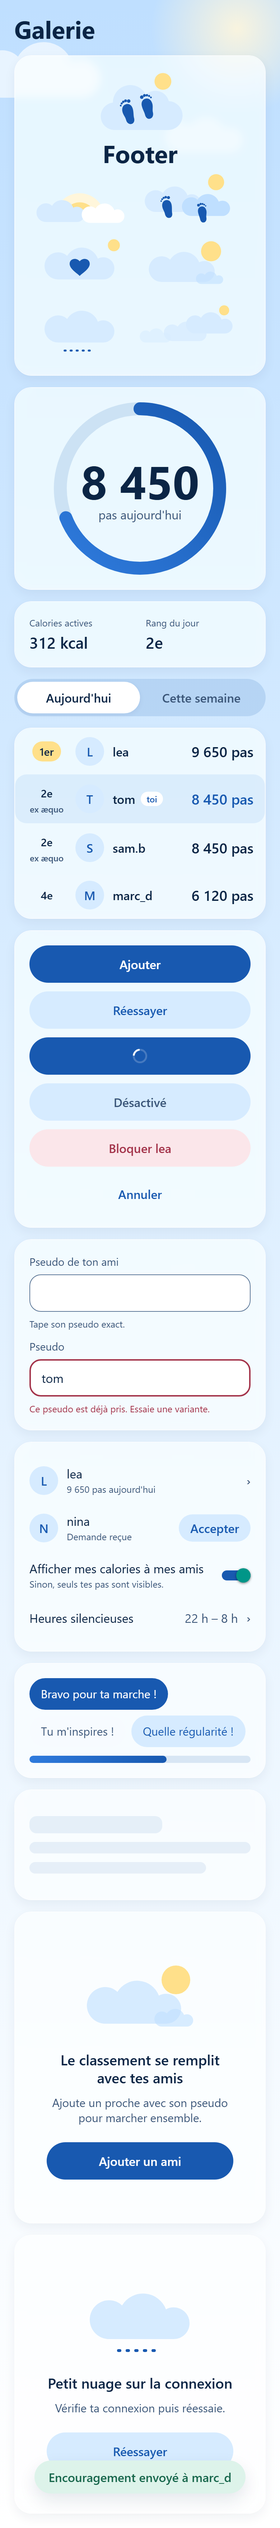
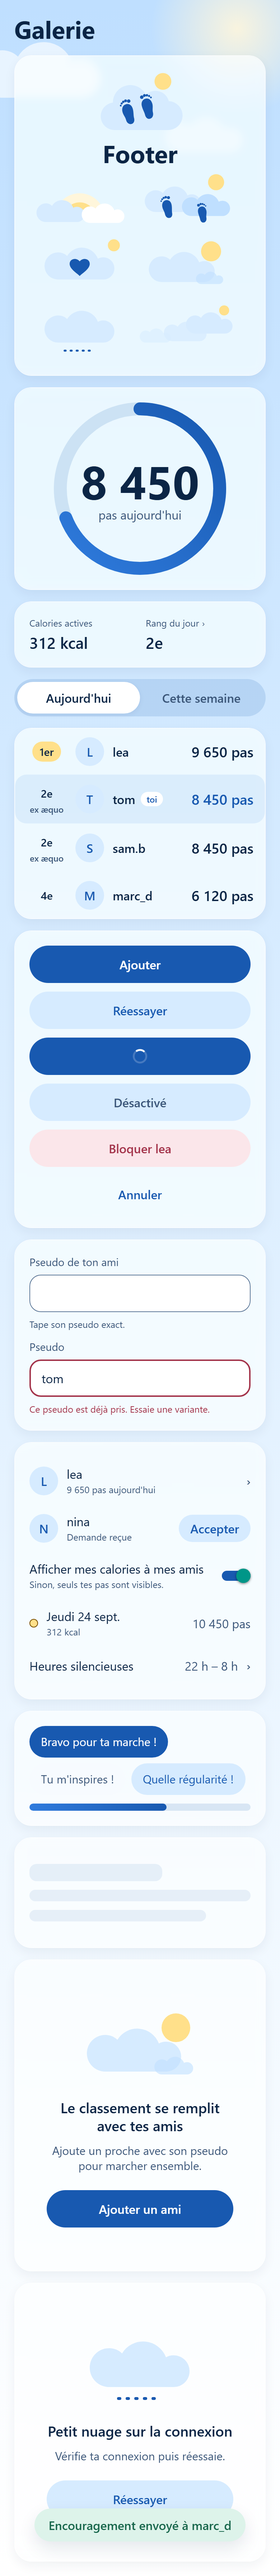
[designer] StatTile.onPress, ListRow leadingLabel et SunBadge ; screens.md : consentement

diff --git a/packages/ui/src/components/ListRow.tsx b/packages/ui/src/components/ListRow.tsx
@@ -1,15 +1,32 @@
 import type { ReactNode } from "react";
 import { Pressable, StyleSheet, Switch, View } from "react-native";
-import { layout, lightColors, space, type ColorToken } from "../tokens";
+import { layout, lightColors, radius, space, type ColorToken } from "../tokens";
 import { AppText } from "./AppText";
 
 type Base = {
   title: string;
   subtitle?: string;
-  /** Élément à gauche (Monogram, icône décorative). */
+  /** Élément à gauche (Monogram, `SunBadge`…). Décoratif : masqué à VoiceOver. */
   leading?: ReactNode;
+  /** Sens de `leading` s'il porte une information, ajouté au libellé VoiceOver (ex. « palier de 10 000 franchi »). */
+  leadingLabel?: string;
   titleColor?: ColorToken;
 };
+
+/** Emplacement de tête, toujours masqué à VoiceOver (le sens éventuel passe par `leadingLabel`). */
+function Leading({ children }: { children?: ReactNode }) {
+  if (children == null || children === false) return null;
+  return (
+    <View aria-hidden style={styles.leading}>
+      {children}
+    </View>
+  );
+}
+
+/** Pastille soleil décorative (ex. jour où le palier de 10 000 pas est franchi). */
+export function SunBadge() {
+  return <View aria-hidden style={styles.sunBadge} />;
+}
 
 function RowText({ title, subtitle, titleColor }: Pick<Base, "title" | "subtitle"> & { titleColor: ColorToken }) {
   return (
@@ -36,11 +53,21 @@ export type ListRowProps = Base & {
 };
 
 /** Ligne de liste (amis, demandes, paramètres). Chevron affiché si pressable. */
-export function ListRow({ title, subtitle, leading, titleColor = "text", value, trailing, onPress, accessibilityHint }: ListRowProps) {
-  const label = [title, subtitle, value].filter(Boolean).join(", ");
+export function ListRow({
+  title,
+  subtitle,
+  leading,
+  leadingLabel,
+  titleColor = "text",
+  value,
+  trailing,
+  onPress,
+  accessibilityHint,
+}: ListRowProps) {
+  const label = [title, subtitle, value, leadingLabel].filter(Boolean).join(", ");
   const content = (
     <>
-      {leading}
+      <Leading>{leading}</Leading>
       <RowText title={title} subtitle={subtitle} titleColor={titleColor} />
       {value ? (
         <AppText variant="body" color="textSecondary">
@@ -58,8 +85,8 @@ export function ListRow({ title, subtitle, leading, titleColor = "text", value, 
   if (trailing) {
     return (
       <View style={styles.row}>
-        <View style={styles.inline} accessible aria-label={[title, subtitle].filter(Boolean).join(", ")}>
-          {leading}
+        <View style={styles.inline} accessible aria-label={[title, subtitle, leadingLabel].filter(Boolean).join(", ")}>
+          <Leading>{leading}</Leading>
           <RowText title={title} subtitle={subtitle} titleColor={titleColor} />
         </View>
         <View style={styles.trailing}>{trailing}</View>
@@ -88,7 +115,7 @@ export function ListRow({ title, subtitle, leading, titleColor = "text", value, 
   );
 }
 
-export type SwitchRowProps = Base & {
+export type SwitchRowProps = Omit<Base, "leadingLabel"> & {
   value: boolean;
   onValueChange: (value: boolean) => void;
   disabled?: boolean;
@@ -98,7 +125,7 @@ export type SwitchRowProps = Base & {
 export function SwitchRow({ title, subtitle, leading, titleColor = "text", value, onValueChange, disabled }: SwitchRowProps) {
   return (
     <View style={styles.row}>
-      {leading}
+      <Leading>{leading}</Leading>
       <View style={styles.body} aria-hidden>
         <RowText title={title} subtitle={subtitle} titleColor={titleColor} />
       </View>
@@ -126,6 +153,15 @@ const styles = StyleSheet.create({
   },
   inline: { flex: 1, flexDirection: "row", alignItems: "center", gap: space[3] },
   pressed: { opacity: 0.6 },
+  leading: { alignItems: "center", justifyContent: "center" },
+  sunBadge: {
+    width: space[3],
+    height: space[3],
+    borderRadius: radius.full,
+    backgroundColor: lightColors.sun,
+    borderWidth: 1.5,
+    borderColor: lightColors.warning,
+  },
   body: { flex: 1, gap: space[1] / 2 },
   trailing: { flexDirection: "row", gap: space[2], flexWrap: "wrap", justifyContent: "flex-end" },
 });

diff --git a/packages/ui/src/components/Chip.tsx b/packages/ui/src/components/Chip.tsx
@@ -44,19 +44,62 @@ export type StatTileProps = {
   value: string;
   /** Lecture VoiceOver si différente, ex. « Calories actives, 312 kilocalories ». */
   accessibilityLabel?: string;
+  /** Rend la tuile pressable (bouton), ex. rang du jour → Classement. */
+  onPress?: () => void;
+  /** Conséquence du toucher, ex. « Ouvre le classement ». Ignoré sans `onPress`. */
+  accessibilityHint?: string;
 };
 
-/** Petit indicateur chiffré (calories, rang du jour). */
-export function StatTile({ label, value, accessibilityLabel }: StatTileProps) {
-  return (
-    <View style={styles.tile} accessible aria-label={accessibilityLabel ?? `${label}, ${value}`}>
-      <AppText variant="footnote" color="textSecondary">
-        {label}
-      </AppText>
+/** Petit indicateur chiffré (calories, rang du jour). Pressable si `onPress` est fourni. */
+export function StatTile({ label, value, accessibilityLabel, onPress, accessibilityHint }: StatTileProps) {
+  const reduced = useReducedMotion();
+  const a11yLabel = accessibilityLabel ?? `${label}, ${value}`;
+  const content = (
+    <>
+      {onPress ? (
+        <View style={styles.tileLabel}>
+          <AppText variant="footnote" color="textSecondary" style={styles.tileLabelText}>
+            {label}
+          </AppText>
+          <AppText variant="footnote" color="textSecondary" aria-hidden>
+            ›
+          </AppText>
+        </View>
+      ) : (
+        <AppText variant="footnote" color="textSecondary">
+          {label}
+        </AppText>
+      )}
       <AppText variant="title2" style={styles.value}>
         {value}
       </AppText>
-    </View>
+    </>
+  );
+
+  if (!onPress) {
+    return (
+      <View style={styles.tile} accessible aria-label={a11yLabel}>
+        {content}
+      </View>
+    );
+  }
+
+  return (
+    <Pressable
+      role="button"
+      aria-label={a11yLabel}
+      accessibilityHint={accessibilityHint}
+      onPress={onPress}
+      hitSlop={space[2]}
+      style={({ pressed }) => [
+        styles.tile,
+        styles.tilePressable,
+        pressed && styles.tilePressed,
+        pressed && !reduced ? { transform: [{ scale: motion.pressedScale }] } : null,
+      ]}
+    >
+      {content}
+    </Pressable>
   );
 }
 
@@ -73,5 +116,9 @@ const styles = StyleSheet.create({
   pressed: { backgroundColor: lightColors.accentSoftPressed },
   disabled: { backgroundColor: lightColors.surfaceOpaque },
   tile: { flex: 1, gap: space[1] },
+  tileLabel: { flexDirection: "row", alignItems: "center", gap: space[1] },
+  tileLabelText: { flexShrink: 1 },
+  tilePressable: { minHeight: layout.minTouch, justifyContent: "center" },
+  tilePressed: { opacity: 0.6 },
   value: { fontVariant: ["tabular-nums"] },
 });

diff --git a/packages/ui/src/__tests__/Gallery.tsx b/packages/ui/src/__tests__/Gallery.tsx
@@ -20,6 +20,7 @@ import {
   SkyBackground,
   StatTile,
   StepRing,
+  SunBadge,
   SwitchRow,
   TextField,
   Toast,
@@ -58,7 +59,7 @@ export function Gallery({ withSheet = false }: { withSheet?: boolean }) {
         <GlassCard>
           <View style={styles.row}>
             <StatTile label="Calories actives" value="312 kcal" />
-            <StatTile label="Rang du jour" value="2e" />
+            <StatTile label="Rang du jour" value="2e" onPress={() => undefined} accessibilityHint="Ouvre le classement" />
           </View>
         </GlassCard>
         <SegmentedControl
@@ -102,6 +103,7 @@ export function Gallery({ withSheet = false }: { withSheet?: boolean }) {
             trailing={<Button label="Accepter" size="compact" variant="secondary" onPress={() => undefined} />}
           />
           <SwitchRow title="Afficher mes calories à mes amis" subtitle="Sinon, seuls tes pas sont visibles." value onValueChange={() => undefined} />
+          <ListRow title="Jeudi 24 sept." subtitle="312 kcal" value="10 450 pas" leading={<SunBadge />} leadingLabel="palier de 10 000 franchi" />
           <ListRow title="Heures silencieuses" value="22 h – 8 h" onPress={() => undefined} />
         </GlassCard>
         <GlassCard>

diff --git a/packages/ui/src/__tests__/smoke.web.test.tsx b/packages/ui/src/__tests__/smoke.web.test.tsx
@@ -41,7 +41,13 @@ describe("rendu web", () => {
     expect(html).toContain('aria-busy="true"');
     expect(html).toContain('aria-disabled="true"');
     expect(html).toContain('role="heading"');
-    expect(html).toContain('aria-hidden="true"');
+    expect(html).toContain('aria-hidden="true"');  });
+
+  it("StatTile pressable et pastille de tête de ListRow", () => {
+    const { html } = renderApp();
+    expect(html).toMatch(/role="button"[^>]*aria-label="Rang du jour, 2e"|aria-label="Rang du jour, 2e"[^>]*role="button"/);
+    expect(html).toMatch(/aria-label="Calories actives, 312 kcal"(?![^>]*role="button")/);
+    expect(html).toContain('aria-label="Jeudi 24 sept., 312 kcal, 10 450 pas, palier de 10 000 franchi"');
   });
 
   it("utilise une pile de polices de repli sur le web", () => {

diff --git a/packages/ui/src/index.ts b/packages/ui/src/index.ts
@@ -16,7 +16,7 @@ export { ProgressBar, type ProgressBarProps } from "./components/ProgressBar";
 export { RankRow, type RankRowProps } from "./components/RankRow";
 export { Monogram, type MonogramProps } from "./components/Monogram";
 export { SegmentedControl, type SegmentedControlProps, type SegmentOption } from "./components/SegmentedControl";
-export { ListRow, SwitchRow, type ListRowProps, type SwitchRowProps } from "./components/ListRow";
+export { ListRow, SwitchRow, SunBadge, type ListRowProps, type SwitchRowProps } from "./components/ListRow";
 export { Chip, StatTile, type ChipProps, type StatTileProps } from "./components/Chip";
 export {
   Skeleton,

diff --git a/docs/design/screens.md b/docs/design/screens.md
@@ -55,19 +55,19 @@ Règle : aucun texte gris clair, aucun texte posé directement sur un nuage déc
 
 ---
 
-## 1. Onboarding (3 pages) + consentement santé
+## 1. Onboarding (2 pages) + consentement santé
 
 **But** : comprendre Footer en 20 secondes, puis consentir explicitement au traitement des pas (RGPD art. 9) avant toute synchro.
 
-Fond `SkyBackground dawn`. Pagination horizontale (points de page, VoiceOver « Page 1 sur 3 »), bouton `primary` en bas, « Passer » (`ghost`) en haut à droite sur les pages 1–2.
+Fond `SkyBackground dawn`. Pagination horizontale (points de page, VoiceOver « Page 1 sur 2 »), bouton `primary` en bas, « Passer » (`ghost`) en haut à droite. Le consentement n'est pas une page de l'onboarding : c'est un écran dédié, affiché après la connexion et le pseudonyme.
 
 | Page | Illustration | Titre (`title1`) | Texte (`callout`) | Action |
 |---|---|---|---|---|
 | 1 | `Illustration sunrise` | Marche, tout simplement | Footer compte tes pas et te propose une petite compétition amicale avec tes proches. | Continuer |
 | 2 | `Illustration together` | Entre proches, sans pression | Tu ne vois que tes amis, et eux ne voient que toi. Pas de classement public. | Continuer |
-| 3 | `Illustration privacy` | Ce que Footer utilise | voir ci-dessous | J'accepte et je continue |
+| Consentement (écran dédié) | `Illustration privacy` | Ce que Footer utilise | voir ci-dessous | J'accepte et je continue |
 
-**Page 3 : consentement santé (écran dédié, séparé des CGU)**
+**Consentement santé (écran dédié, séparé des CGU, après connexion et pseudonyme)**
 - `GlassCard` avec liste à puces :
   - « Tes pas et tes calories actives de chaque jour, lus dans Apple Santé. »
   - « Seulement les totaux quotidiens, jamais le détail de tes mouvements. »
@@ -77,9 +77,9 @@ Fond `SkyBackground dawn`. Pagination horizontale (points de page, VoiceOver « 
 - Lien `ghost` « Lire la politique de confidentialité » (ouvre la page statique de l'API dans un navigateur intégré).
 - Case à cocher explicite (`SwitchRow`) : « J'accepte que Footer traite mes données de pas et de calories » — **désactivée par défaut**. Le bouton principal reste désactivé tant qu'elle n'est pas activée (VoiceOver : « J'accepte et je continue, désactivé. Active d'abord l'accord ci-dessus. »).
 - Au clic : demande système HealthKit. Si l'utilisateur refuse l'accès dans la feuille iOS : écran d'information « Footer a besoin de tes pas pour fonctionner. Tu peux l'autoriser dans Réglages > Santé > Accès aux données > Footer. » + bouton `secondary` « Ouvrir Réglages » + `ghost` « Plus tard » (l'app reste utilisable, Accueil en état vide « Santé non connectée »).
-- Refus du consentement Footer : pas de synchro ; bouton « Pas maintenant » (`ghost`) ramène à la page 2 avec message « Sans cet accord, Footer ne peut pas compter tes pas. Tu pourras changer d'avis plus tard. »
+- Refus du consentement Footer : bouton « Pas maintenant » (`ghost`) ; aucune synchro, aucun appel HealthKit. Retour à l'**Accueil** (pas à l'onboarding) avec `Toast tone="info"` rassurant « Pas de souci. Footer ne lira pas tes pas sans ton accord. Tu peux l'activer quand tu veux. » ; l'Accueil s'affiche en état vide « consentement absent » (§4), dont l'action « Autoriser l'accès » rouvre cet écran. Le choix n'est pas redemandé automatiquement à chaque lancement.
 
-**Ordre du flux** : Onboarding 1–2 → Connexion Apple → Pseudonyme → Consentement (page 3) → Accueil. *(Hypothèse designer : consentement après la connexion pour pouvoir l'horodater côté serveur ; voir points ouverts.)*
+**Ordre du flux** : Onboarding 1–2 → Connexion Apple → Pseudonyme → Consentement → Accueil (accord ou « Pas maintenant »). Consentement après la connexion pour l'horodater côté serveur (décision lead).
 
 ## 2. Connexion avec Apple
 
@@ -115,14 +115,14 @@ Fond `SkyBackground dawn`. Pagination horizontale (points de page, VoiceOver « 
    - 0 pas : « Ta journée commence. Chaque pas compte. » ;
    - VoiceOver anneau : label « Progression vers 10 000 pas », valeur « 8 450 pas sur 10 000 ».
    - Franchissement d'un seuil pendant que l'écran est ouvert : léger halo soleil autour de l'anneau (`celebrate`, 900 ms) + annonce « Palier de 10 000 pas franchi ». Aucun effet si animations réduites (annonce conservée).
-3. **Carte indicateurs** : deux `StatTile` côte à côte (empilés en grand texte) : « Calories actives » / « 312 kcal » ; « Rang du jour » / « 2e sur 5 » (ou « 2e ex æquo »). Toucher la tuile rang → onglet Classement. Sans ami : tuile « Rang du jour » remplacée par « Amis » / « Ajoute un ami » (→ onglet Amis).
+3. **Carte indicateurs** : deux `StatTile` côte à côte (empilés en grand texte) : « Calories actives » / « 312 kcal » ; « Rang du jour » / « 2e sur 5 » (ou « 2e ex æquo »). Toucher la tuile rang → onglet Classement (`StatTile onPress`, chevron discret, hint « Ouvre le classement »). Sans ami : tuile « Rang du jour » remplacée par « Amis » / « Ajoute un ami » (→ onglet Amis, hint « Ouvre tes amis »). La tuile calories n'est pas pressable.
 4. **Carte « prochain ami »** (`ListRow` pressable + `Monogram`) : « Encore 1 201 pas » / « pour dépasser lea » → Classement. Si je suis 1er seul : « Tu mènes la journée » / « Profite de ta balade ». Si 1er ex æquo : « Tu partages la tête avec sam.b ». Masquée sans ami.
 5. **Encouragements reçus** (carte visible s'il y en a aujourd'hui) : `ListRow` + `Monogram` « lea » / « Bravo pour ta marche ! » (3 derniers) ; lien `ghost` « Tout voir » → liste des encouragements reçus (7 derniers jours, même format, état vide `calm` « Aucun encouragement pour l'instant. Et si tu en envoyais un ? »).
 6. **Lien historique** : `ListRow` « Tes 30 derniers jours » → Historique.
 
 **États**
 - Chargement : squelette anneau (cercle `Skeleton` 240) + 2 tuiles. VoiceOver « Chargement de ton activité ».
-- Santé non connectée / consentement absent : `EmptyState` soleil « Connecte Apple Santé pour voir tes pas », action « Autoriser l'accès ».
+- Santé non connectée / consentement absent : `EmptyState` soleil « Connecte Apple Santé pour voir tes pas », message « Footer ne lit rien sans ton accord. », action « Autoriser l'accès » (consentement absent → écran de consentement ; accès HealthKit refusé → écran d'information Réglages du §1).
 - Aucune donnée aujourd'hui (Santé connectée) : anneau vide + « Ta journée commence. Chaque pas compte. » (pas un état d'erreur).
 - Erreur de synchro : on affiche les pas lus localement dans Santé + bandeau `warningSoft` « Tes amis verront ce total dès que la connexion revient. » ; erreur totale : `ErrorState` « Vérifie ta connexion puis tire vers le bas pour réessayer. »
 
@@ -179,7 +179,7 @@ Push depuis Classement ou Amis. Titre de navigation : pseudo.
 Push depuis l'Accueil. Titre « Ton historique ».
 
 1. **Résumé** (`GlassCard`) : « Moyenne : 7 830 pas / jour » ; « Meilleur jour : 14 210 pas, le 12 septembre ». Jamais de « série perdue ».
-2. **Liste** : 30 `ListRow` (jour récent en haut) : titre « Jeudi 24 sept. », valeur « 8 450 pas », sous-titre « 312 kcal » ; `ProgressBar` fine sous chaque ligne (relative au meilleur jour). Seuil de 10 000 franchi : petite pastille soleil décorative (VoiceOver : « palier de 10 000 franchi »).
+2. **Liste** : 30 `ListRow` (jour récent en haut) : titre « Jeudi 24 sept. », valeur « 8 450 pas », sous-titre « 312 kcal » ; `ProgressBar` fine sous chaque ligne (relative au meilleur jour). Seuil de 10 000 franchi : `ListRow leading={<SunBadge />}` + `leadingLabel="palier de 10 000 franchi"` (pastille masquée à VoiceOver, sens ajouté au libellé de la ligne). Jours sans palier : pas de `leading` (le texte reste aligné, pas d'emplacement vide).
 3. Jours sans donnée : « Pas de données » en `textSecondary` (pas « 0 pas » si Santé n'a rien renvoyé).
 
 **États** : chargement (8 lignes squelette) ; vide (`calm`) « Ton historique se construit jour après jour » ; erreur standard.
@@ -238,7 +238,7 @@ Push depuis Paramètres. Titre « Supprimer mon compte ».
 - Revue visuelle web : `pnpm --filter @app/ui gallery` construit la galerie des composants avec react-native-web et écrit `docs/design/review/gallery*.png` (normal, feuille ouverte, animations réduites).
 
 ## Points ouverts
-1. **Ordre consentement / connexion** : (A) consentement après connexion (retenu : horodatage serveur possible) ; (B) avant connexion (stocké localement puis transmis). À trancher par le lead.
+1. ~~Ordre consentement / connexion~~ : réglé, consentement après connexion et pseudonyme ; « Pas maintenant » → Accueil (§1).
 2. ~~Catalogue et seuils~~ : réglé (`ENCOURAGEMENT_CATALOG`, `STEP_MILESTONES`, `encouragedToday` dans `@app/contracts`). `encouragedToday` n'est pas sur les entrées du classement : non nécessaire, le profil ami le lit depuis GET /friends.
 3. ~~Demandes désactivées~~ : réglé par l'ADR 005 (réponse 202 neutre, demande cachée).
 4. ~~Logo~~ : livré (D4), voir §11.
